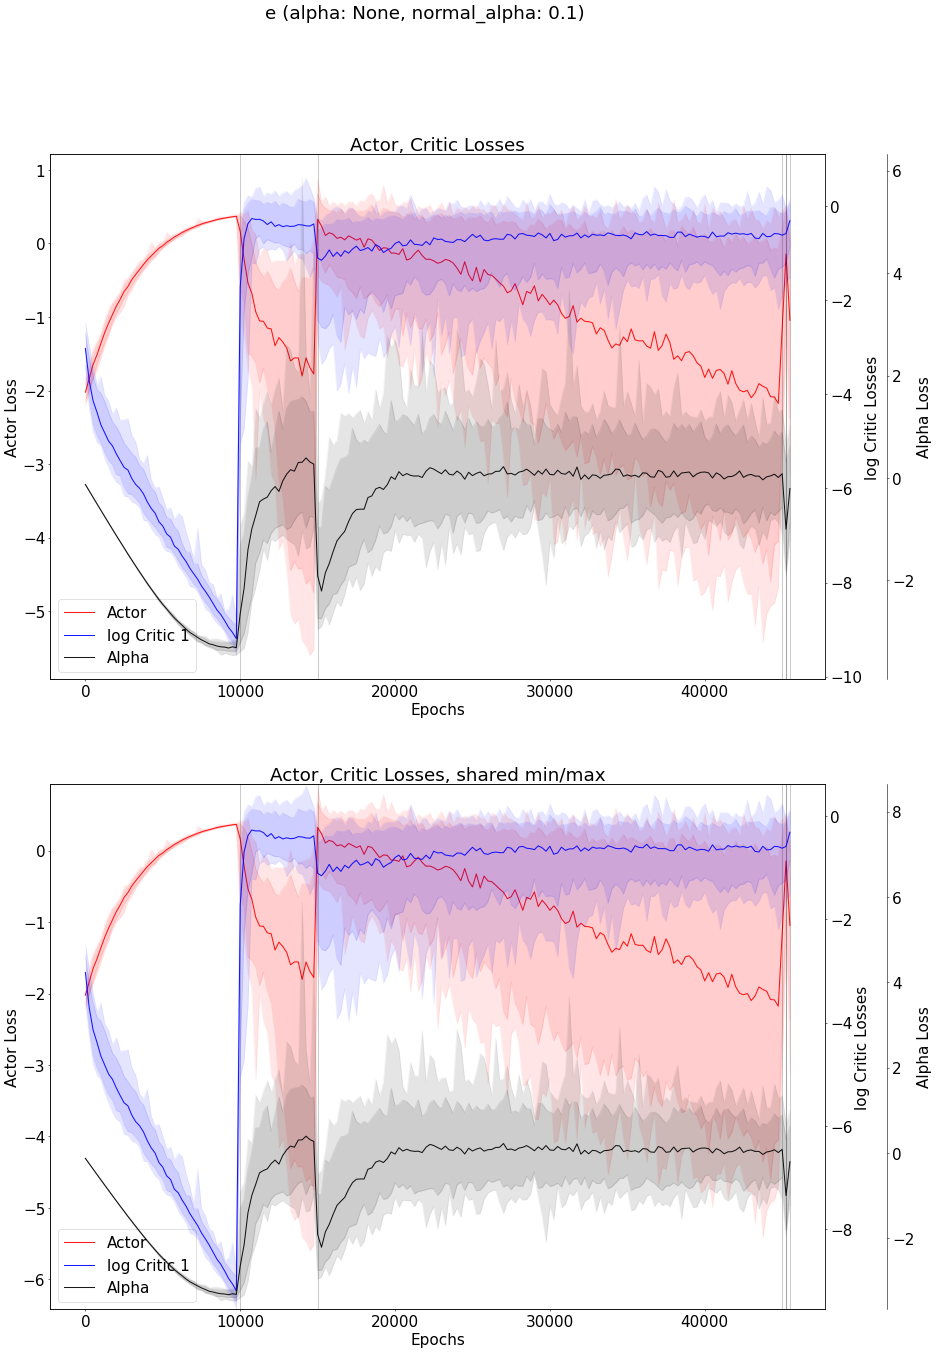
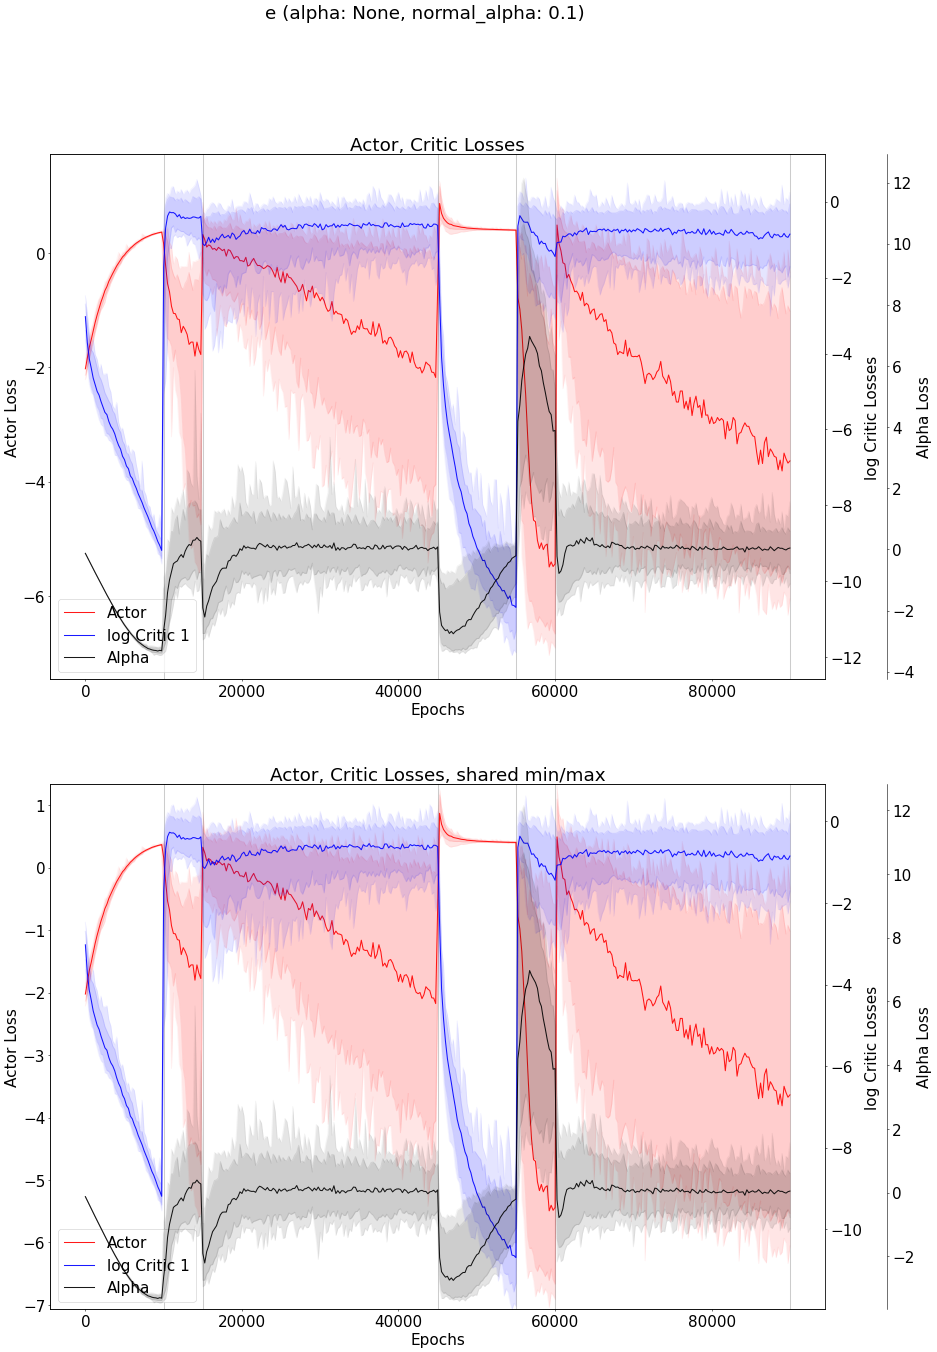
better example of save/load

diff --git a/utils.py b/utils.py
@@ -249,7 +249,7 @@ parser.add_argument('--load_agents',                    type=literal,       defa
     # Things which have list-values.
 parser.add_argument('--task_list',                      type=literal,       default = ["fp5", "w5", "wpulr5"],
                     help='List of tasks. Agent trains on each task based on epochs in epochs parameter.')
-parser.add_argument('--epochs',                         type=literal,       default = [100, 50, 300], #[10000, 5000, 30000], # 10000 for easy mode with distance-rewards and non-gru. 25000 for hard mode enough.
+parser.add_argument('--epochs',                         type=literal,       default = [10000, 5000, 30000], # 10000 for easy mode with distance-rewards and non-gru. 25000 for hard mode enough.
                     help='List of how many epochs to train in each task.')
 parser.add_argument('--time_scales',                    type=literal,       default = [1],
                     help='Time-scales for upper MTRNN.')
